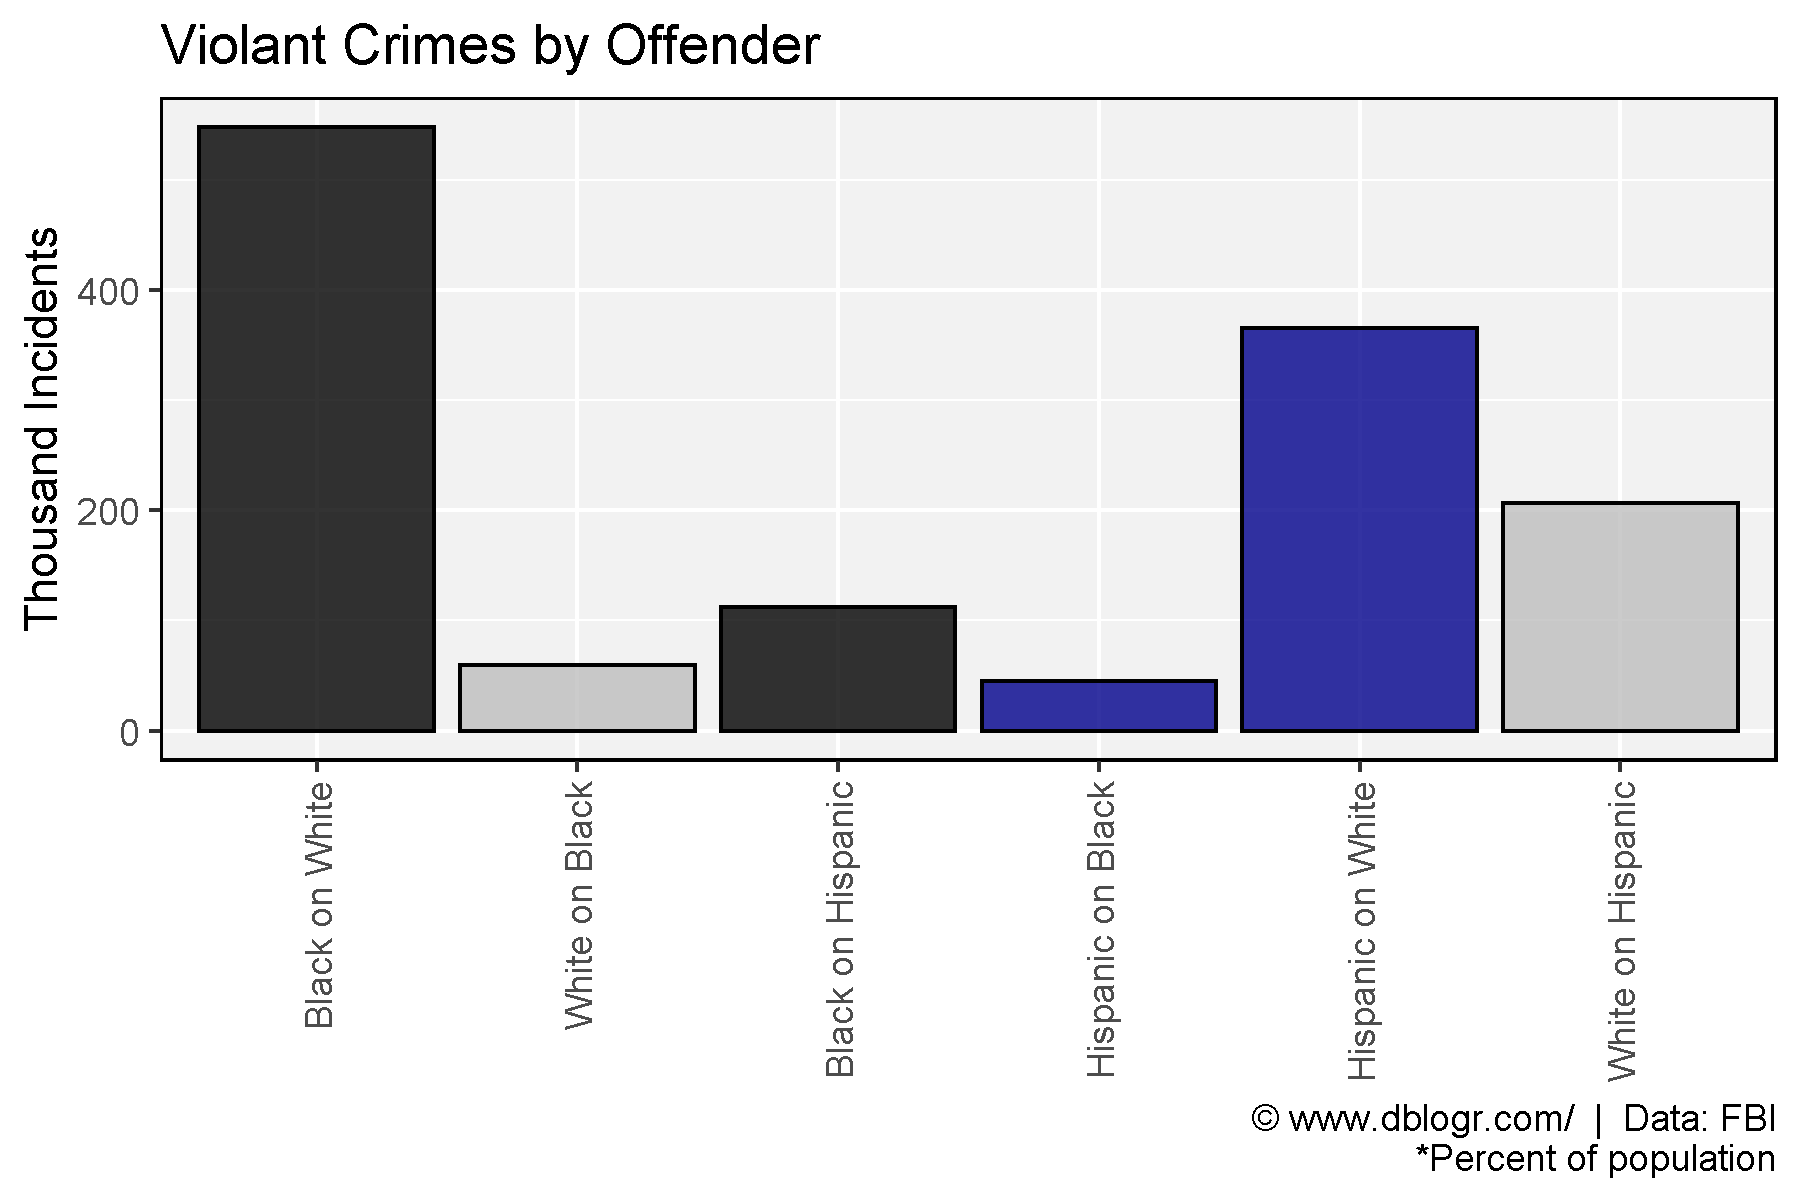
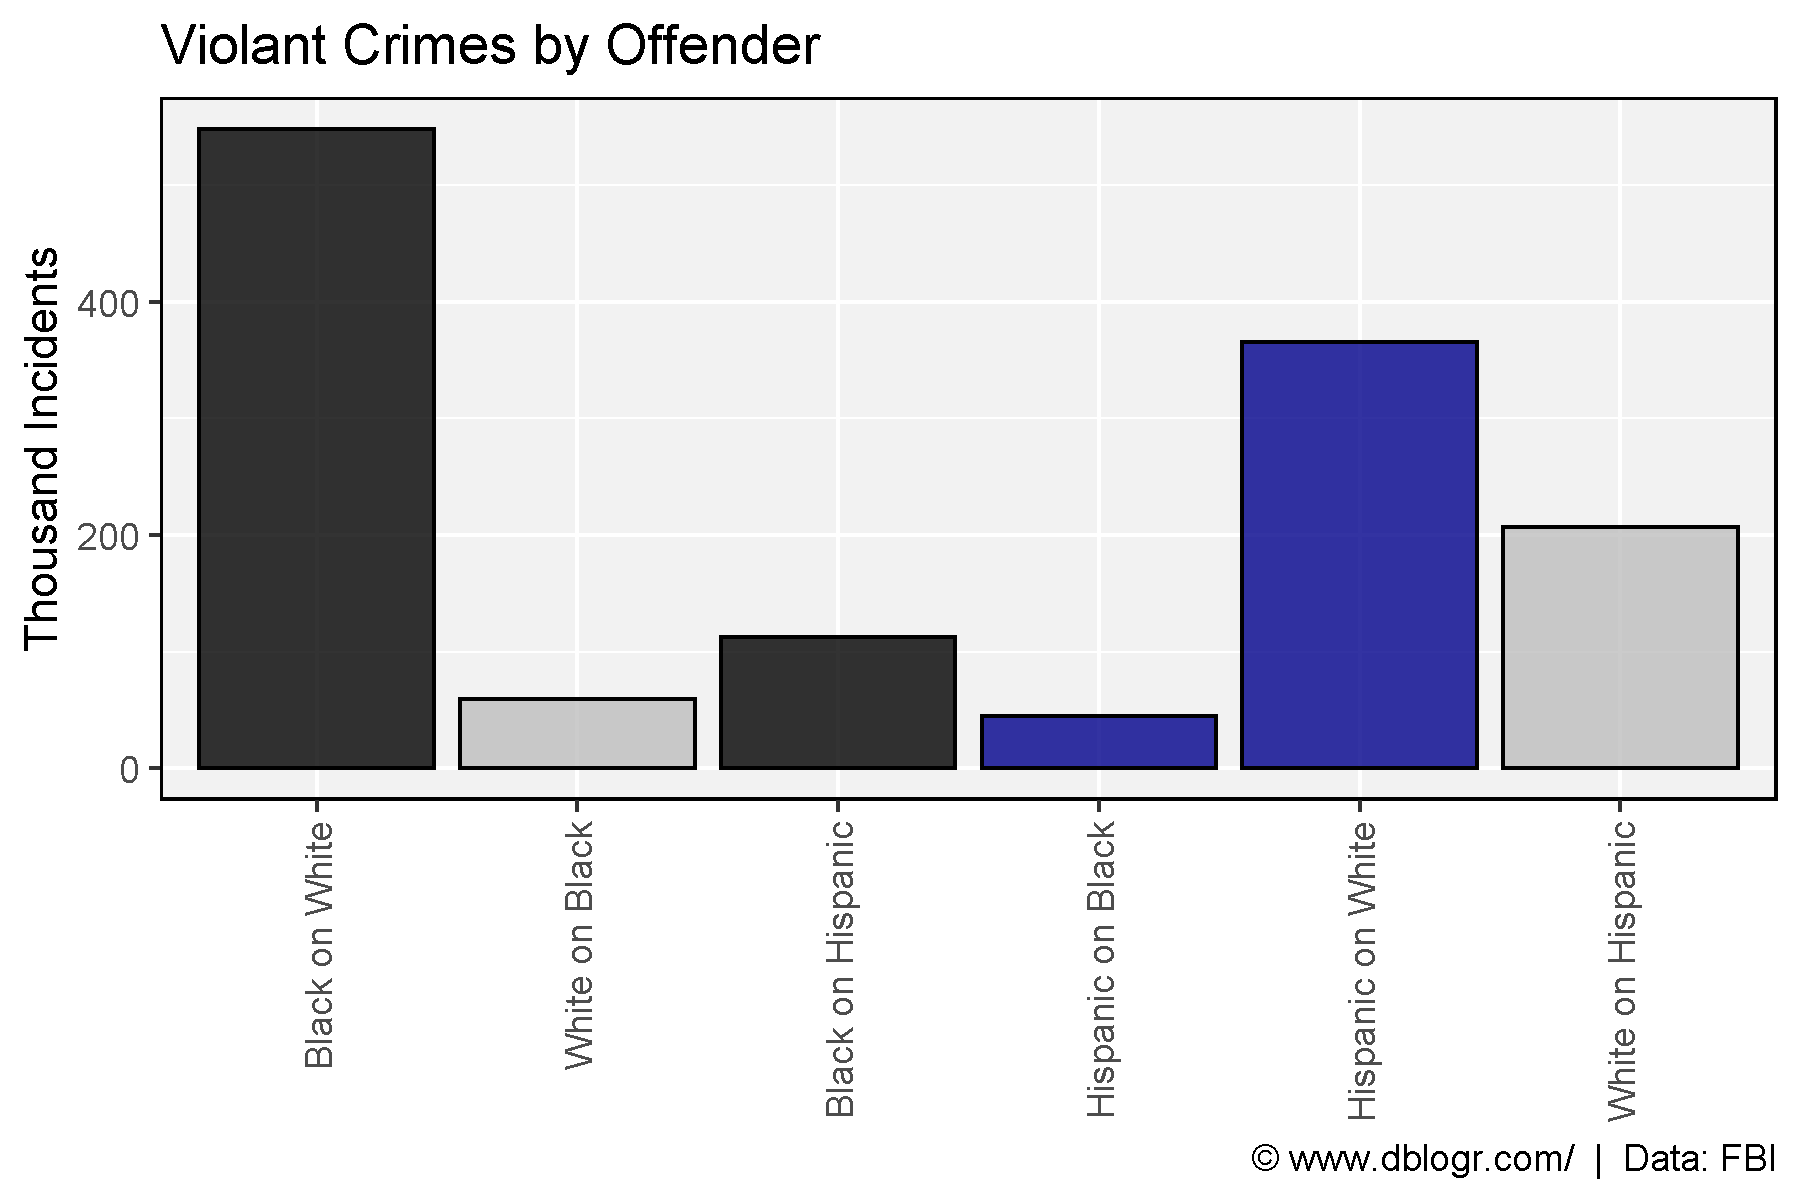
edit

diff --git a/content/dblogr/usa_crime/index.html b/content/dblogr/usa_crime/index.html
@@ -104,7 +104,7 @@ mp &lt;- ggplot(xx, aes(x = Crime, y = Incidents / 1000, fill = Offender)) +
   scale_fill_manual(values = colors) +
   theme_agData(legend.position = &quot;none&quot;, rotx = T) +
   labs(title = &quot;Violant Crimes by Offender&quot;, y = &quot;Thousand Incidents&quot;, x = NULL,
-       caption = &quot;\xa9 www.dblogr.com/  |  Data: FBI\n*Percent of population&quot;)
+       caption = &quot;\xa9 www.dblogr.com/  |  Data: FBI&quot;)
 ggsave(&quot;usa_crime_04.png&quot;, mp, width = 6, height = 4)</code></pre>
 <p><img src="usa_crime_04.png" /></p>
 <hr />
